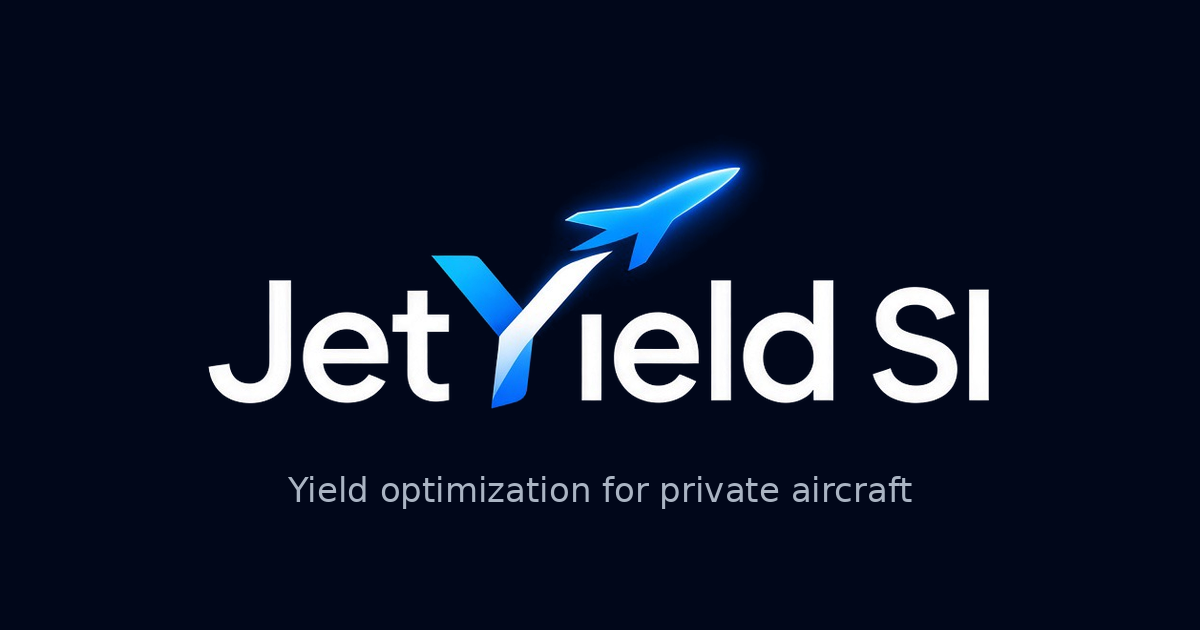
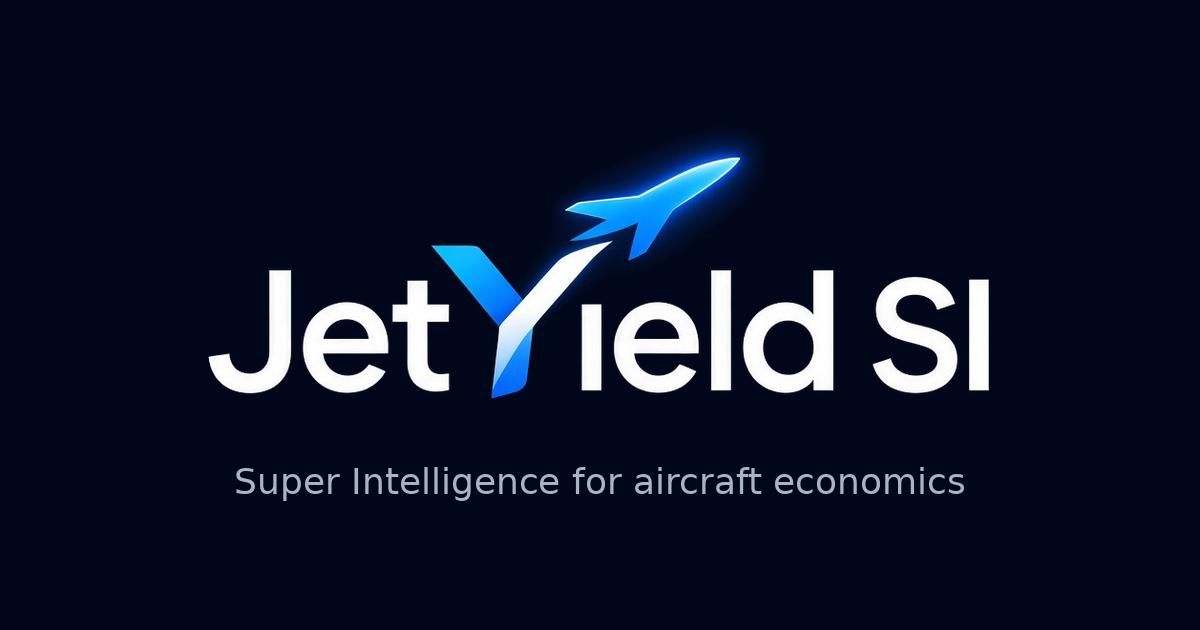
Define SI as Super Intelligence for aircraft economics
Add the tagline to the landing badge, page title, metadata description,
README intro and link-preview image, and refresh README screenshots.

Claude-Session: https://claude.ai/code/session_01HqWJEsuF2G8tukaSnVJXHq

diff --git a/src/app/layout.tsx b/src/app/layout.tsx
@@ -7,12 +7,12 @@ const geistSans = Geist({ variable: "--font-geist-sans", subsets: ["latin"] });
 const geistMono = Geist_Mono({ variable: "--font-geist-mono", subsets: ["latin"] });
 
 export const metadata: Metadata = {
-  title: "JetYield SI: yield optimization for private aircraft",
+  title: "JetYield SI: Super Intelligence for aircraft economics",
   description:
     "See your jet's true cost per hour, sell the empty legs you're already flying, and get AI recommendations that lower ownership cost.",
   openGraph: {
     title: "JetYield SI",
-    description: "AI-native yield optimization for private aircraft owners and operators.",
+    description: "Super Intelligence for aircraft economics: true cost per hour, empty-leg revenue and AI recommendations for owners and operators.",
     type: "website",
   },
 };

diff --git a/src/app/page.tsx b/src/app/page.tsx
@@ -73,7 +73,7 @@ export default function Home() {
         <section className="grid items-center gap-12 pt-10 pb-20 lg:grid-cols-[1.1fr_1fr] lg:pt-20">
           <div>
             <p className="mb-5 inline-flex items-center gap-2 rounded-full border border-border bg-surface px-3 py-1 text-xs text-text-2">
-              <span className="h-1.5 w-1.5 rounded-full bg-amber" aria-hidden /> Yield optimization for private aircraft
+              <span className="h-1.5 w-1.5 rounded-full bg-amber" aria-hidden /> Super Intelligence for aircraft economics
             </p>
             <h1 className="text-4xl leading-[1.05] font-semibold tracking-tight text-balance sm:text-5xl lg:text-6xl">
               Your jet costs more per hour than you think.

diff --git a/README.md b/README.md
@@ -4,7 +4,7 @@
 
 **Your jet costs more per hour than you think. JetYield finds the money.**
 
-JetYield SI is an AI-native yield optimization tool for private aircraft owners and small operators. It shows the true all-in cost per hour, prices the empty legs an aircraft is already flying, and turns flight, cost and maintenance data into prioritized actions that lower the cost of ownership.
+JetYield SI (Super Intelligence for aircraft economics) is an AI-native yield optimization tool for private aircraft owners and small operators. It shows the true all-in cost per hour, prices the empty legs an aircraft is already flying, and turns flight, cost and maintenance data into prioritized actions that lower the cost of ownership.
 
 ![JetYield dashboard](docs/dashboard.png)
 
